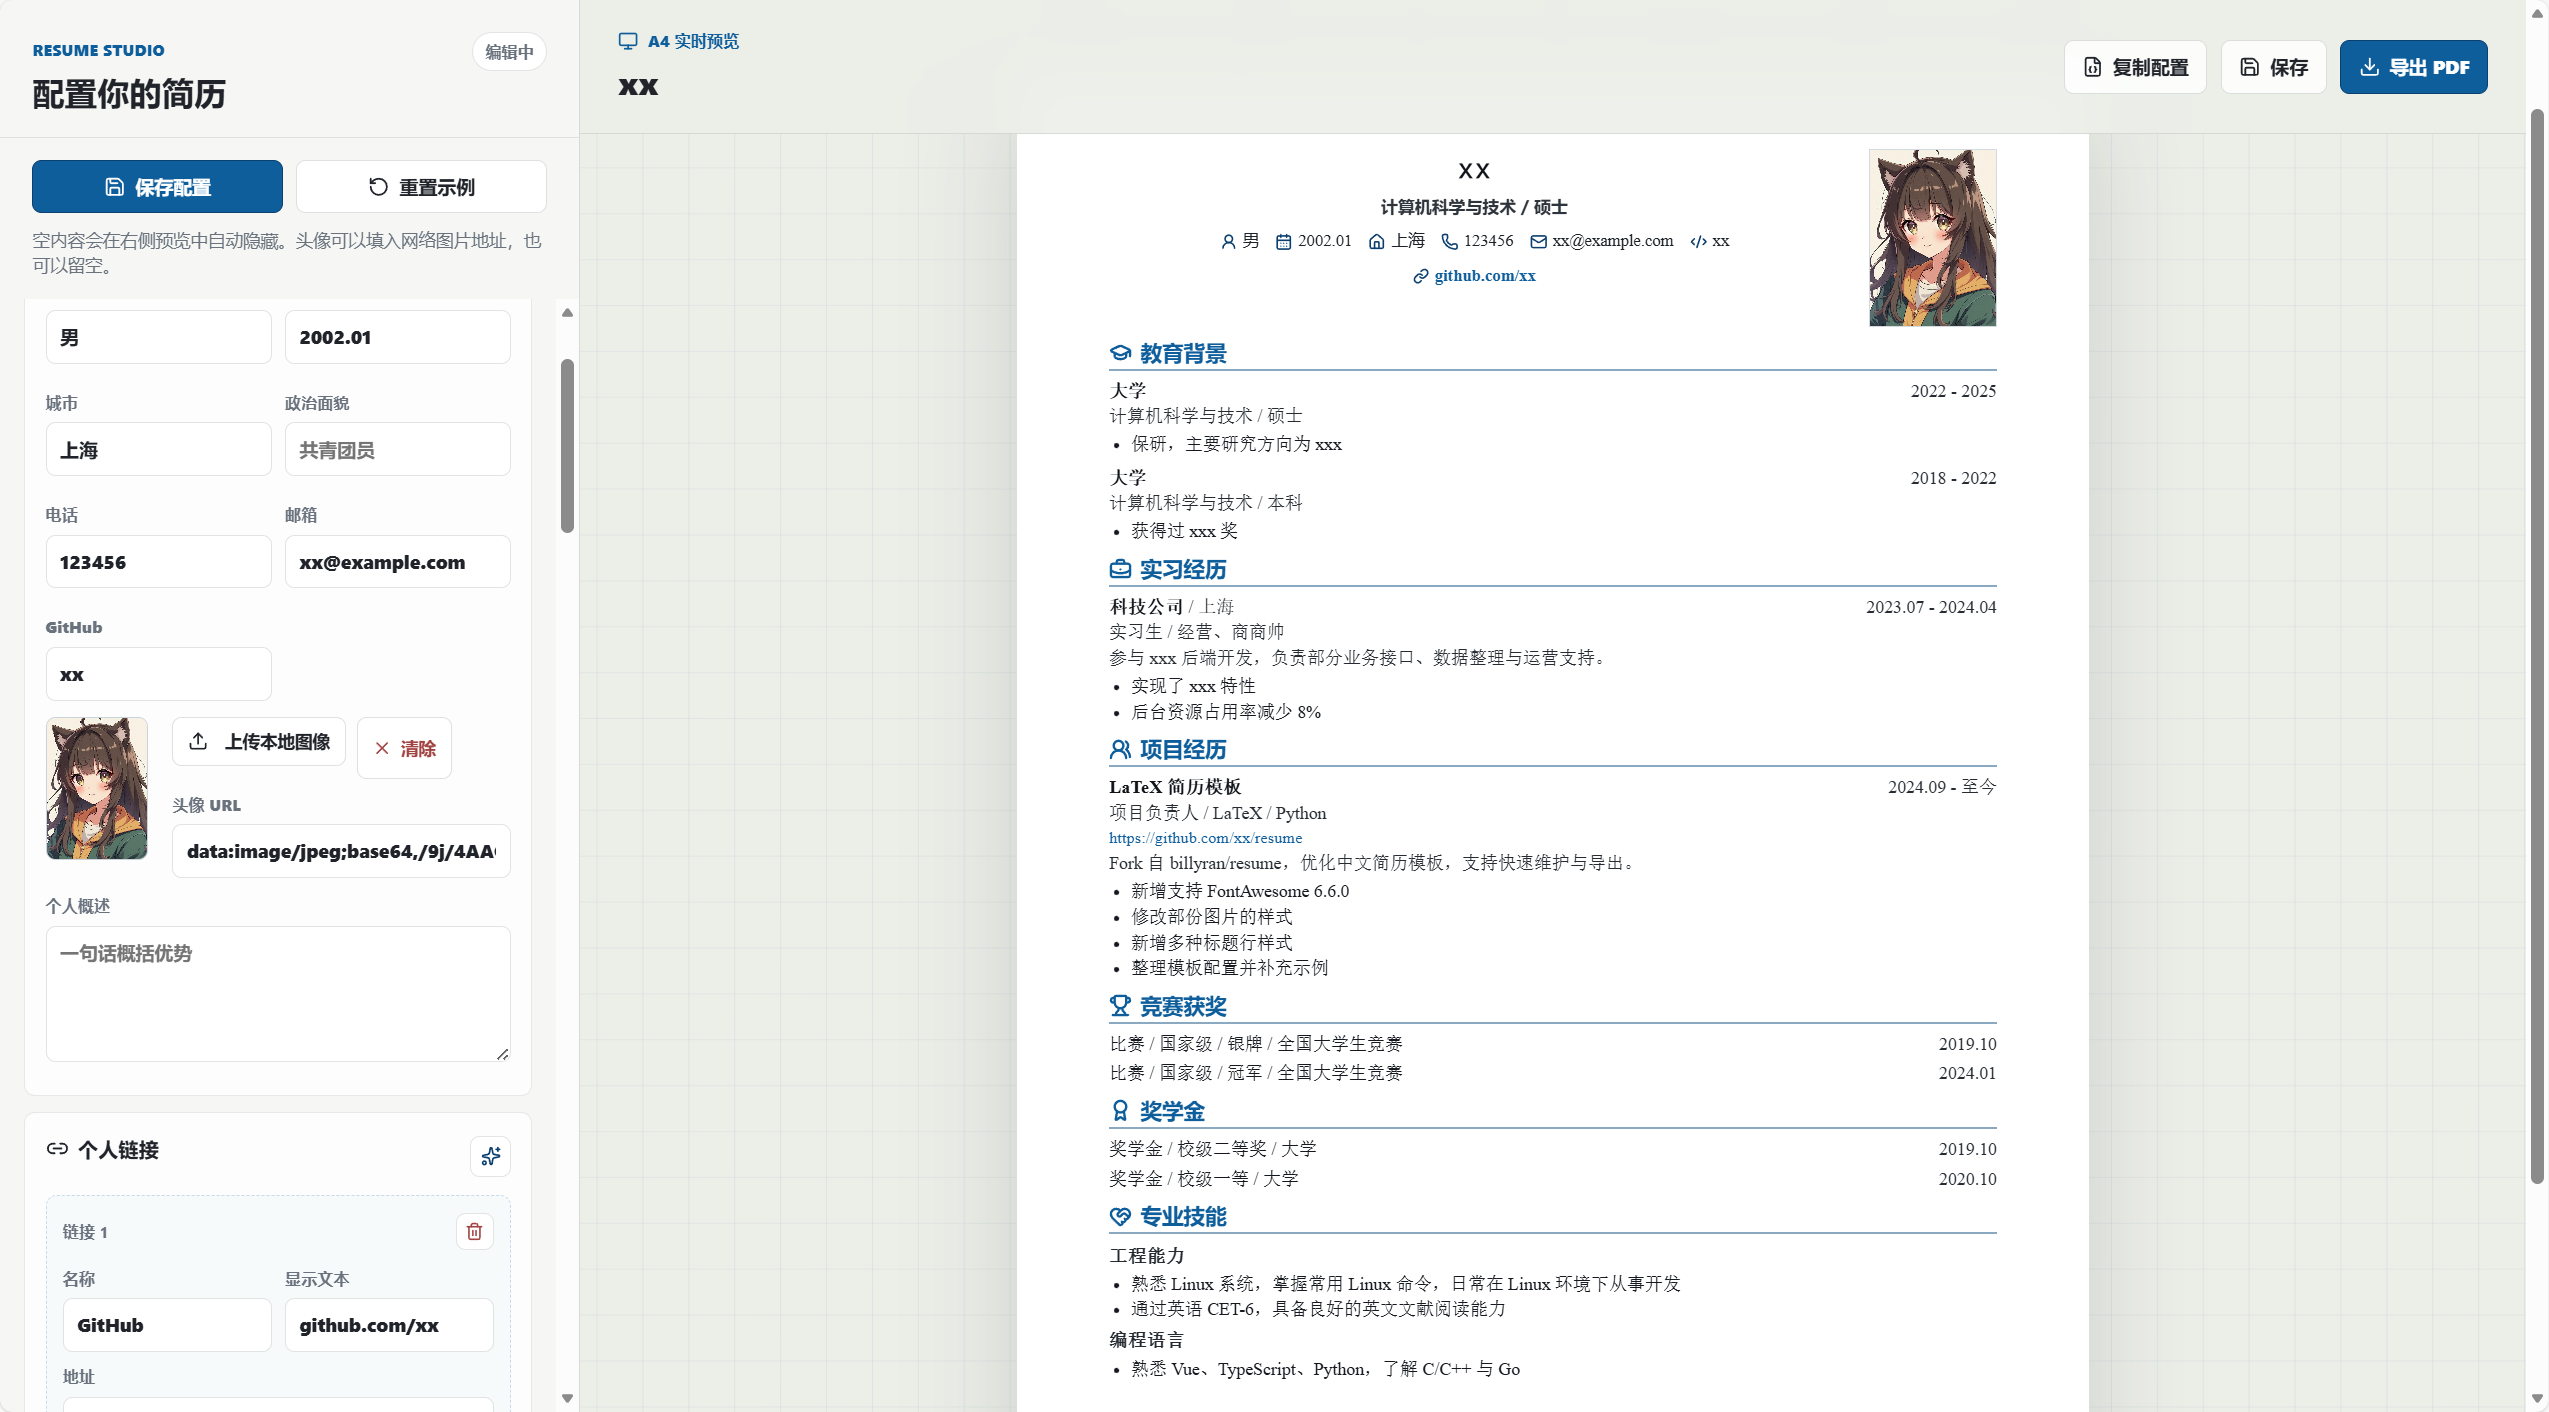
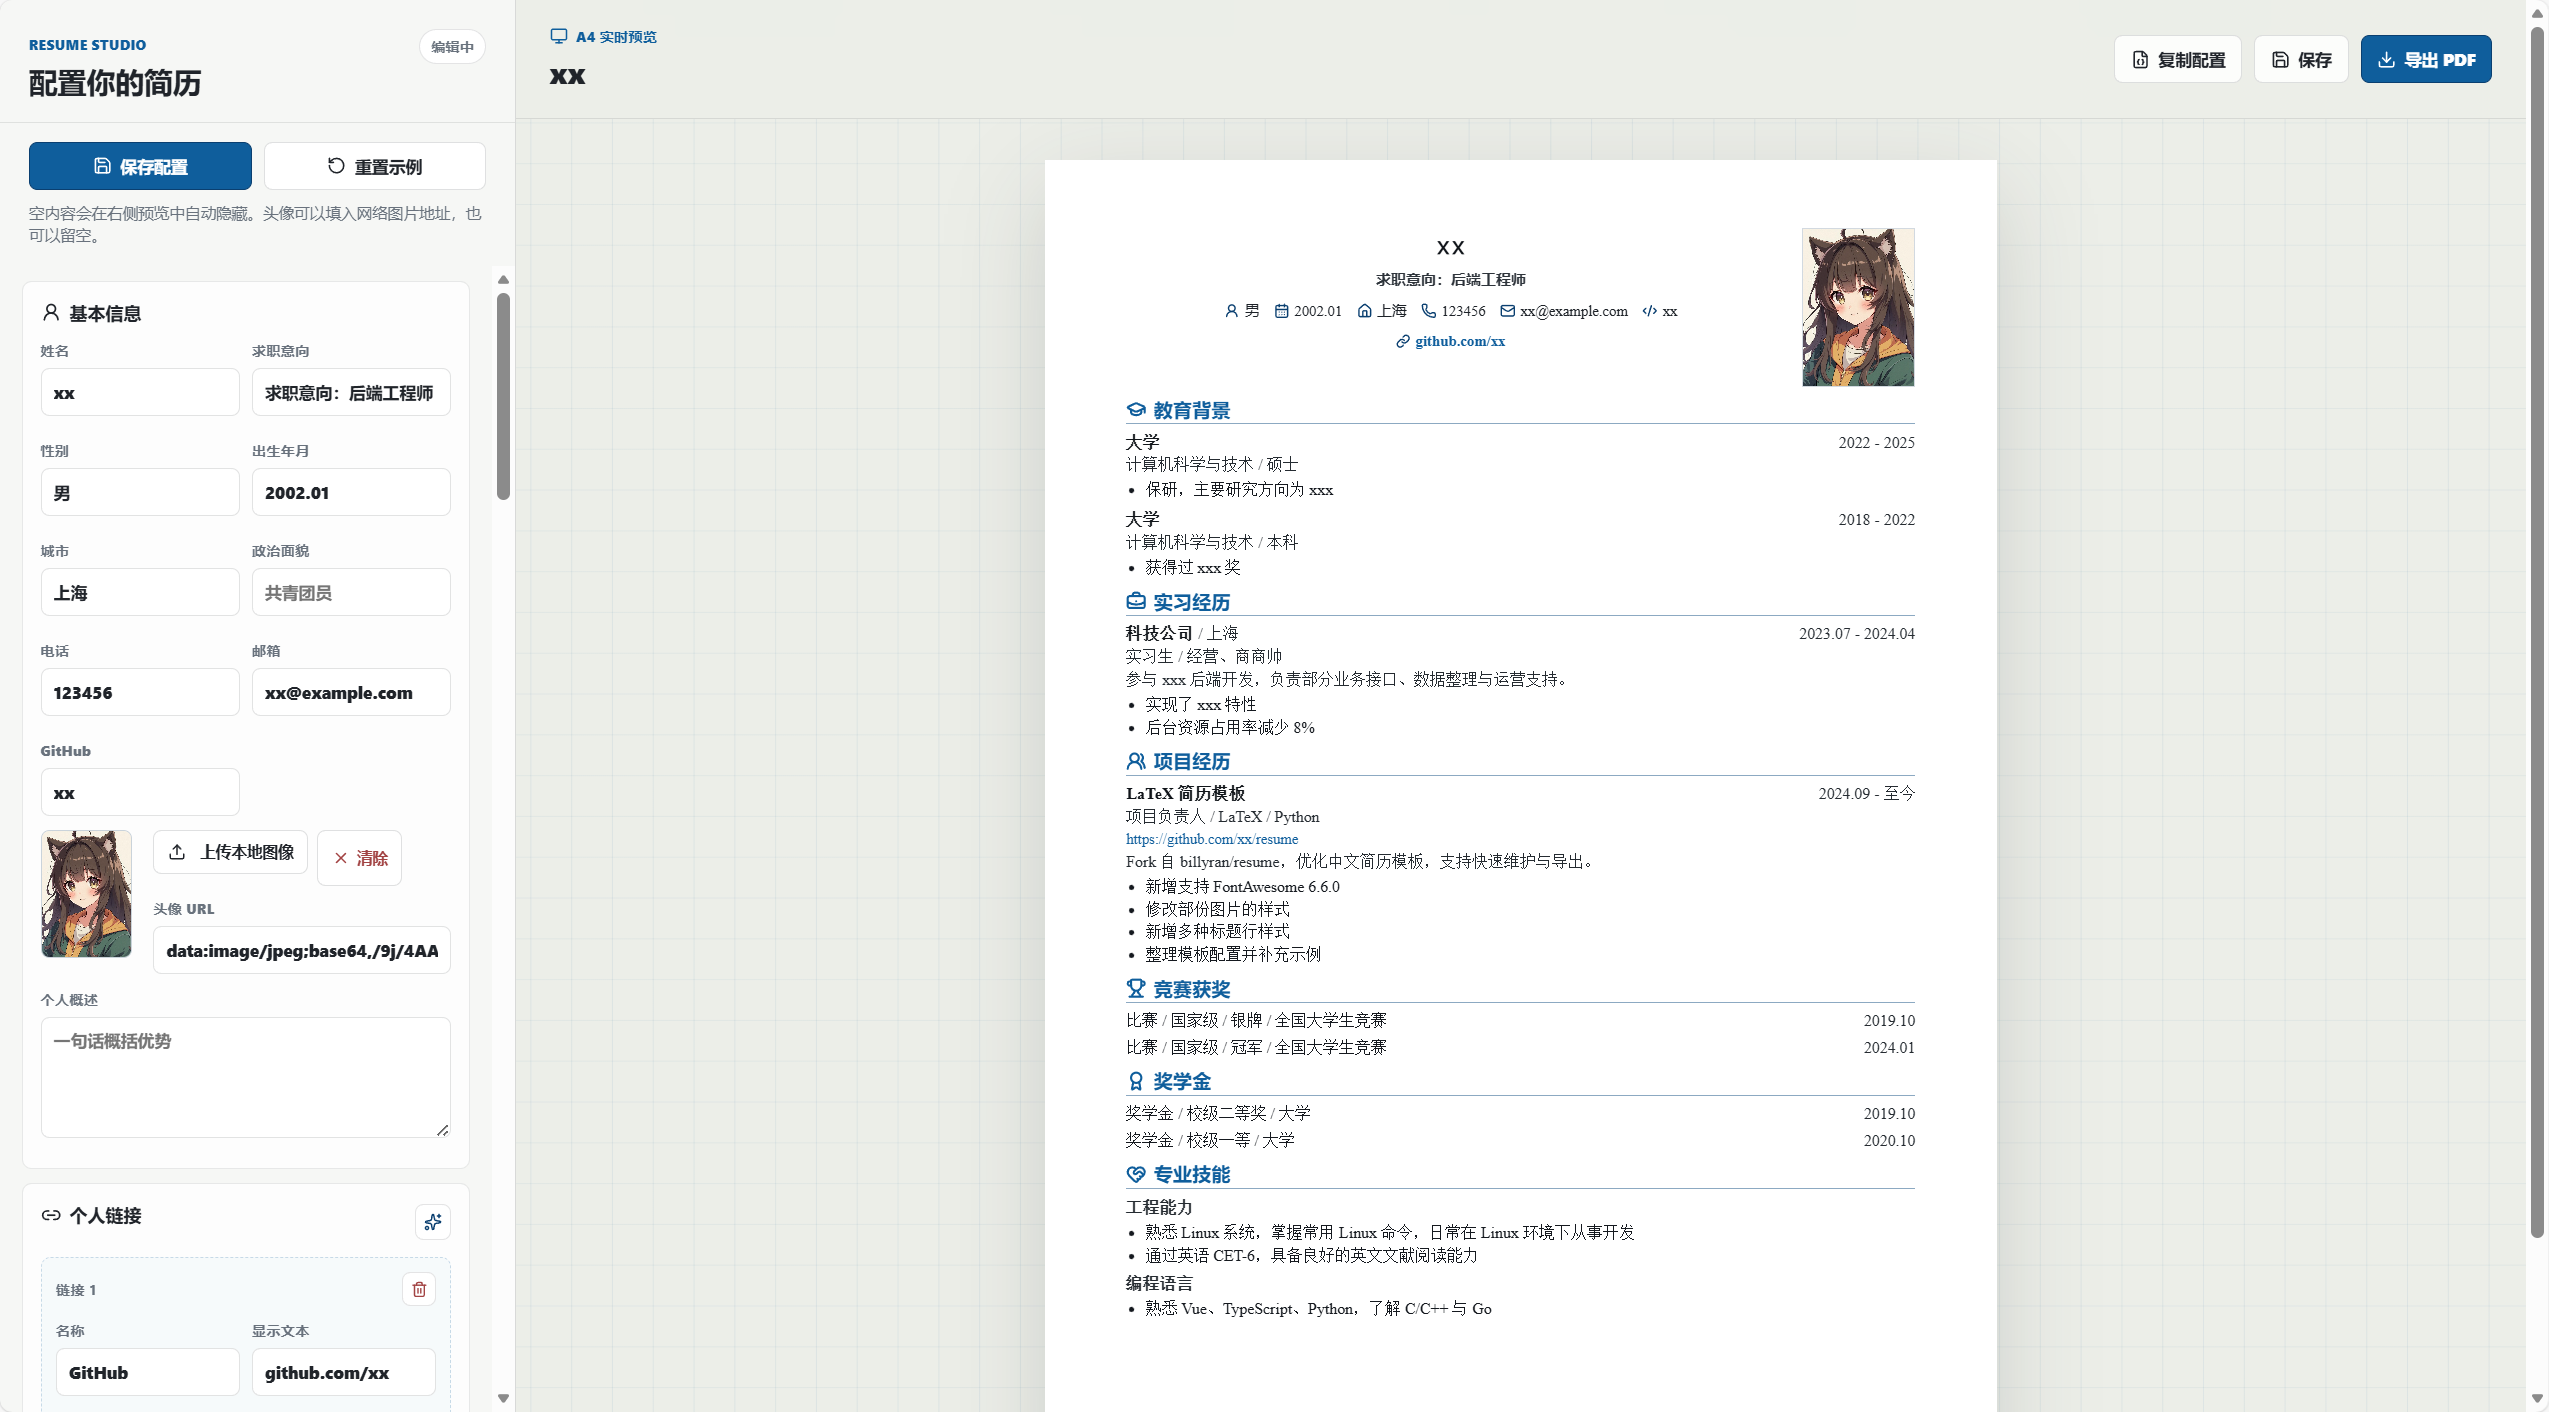
update

diff --git a/src/components/ResumeEditor.vue b/src/components/ResumeEditor.vue
@@ -188,8 +188,8 @@ function fileToAvatarDataUrl(file: File): Promise<string> {
               <input v-model="resume.profile.name" type="text" placeholder="xx" />
             </label>
             <label>
-              标题
-              <input v-model="resume.profile.title" type="text" placeholder="计算机科学与技术 / 硕士" />
+              求职意向
+              <input v-model="resume.profile.title" type="text" placeholder="后端工程师" />
             </label>
             <label>
               性别

diff --git a/src/data/resume.ts b/src/data/resume.ts
@@ -3,7 +3,7 @@ import type { ResumeData } from '../types/resume'
 export const defaultResume: ResumeData = {
   profile: {
     name: 'xx',
-    title: '计算机科学与技术 / 硕士',
+    title: '求职意向：后端工程师',
     gender: '男',
     birthDate: '2002.01',
     city: '上海',
